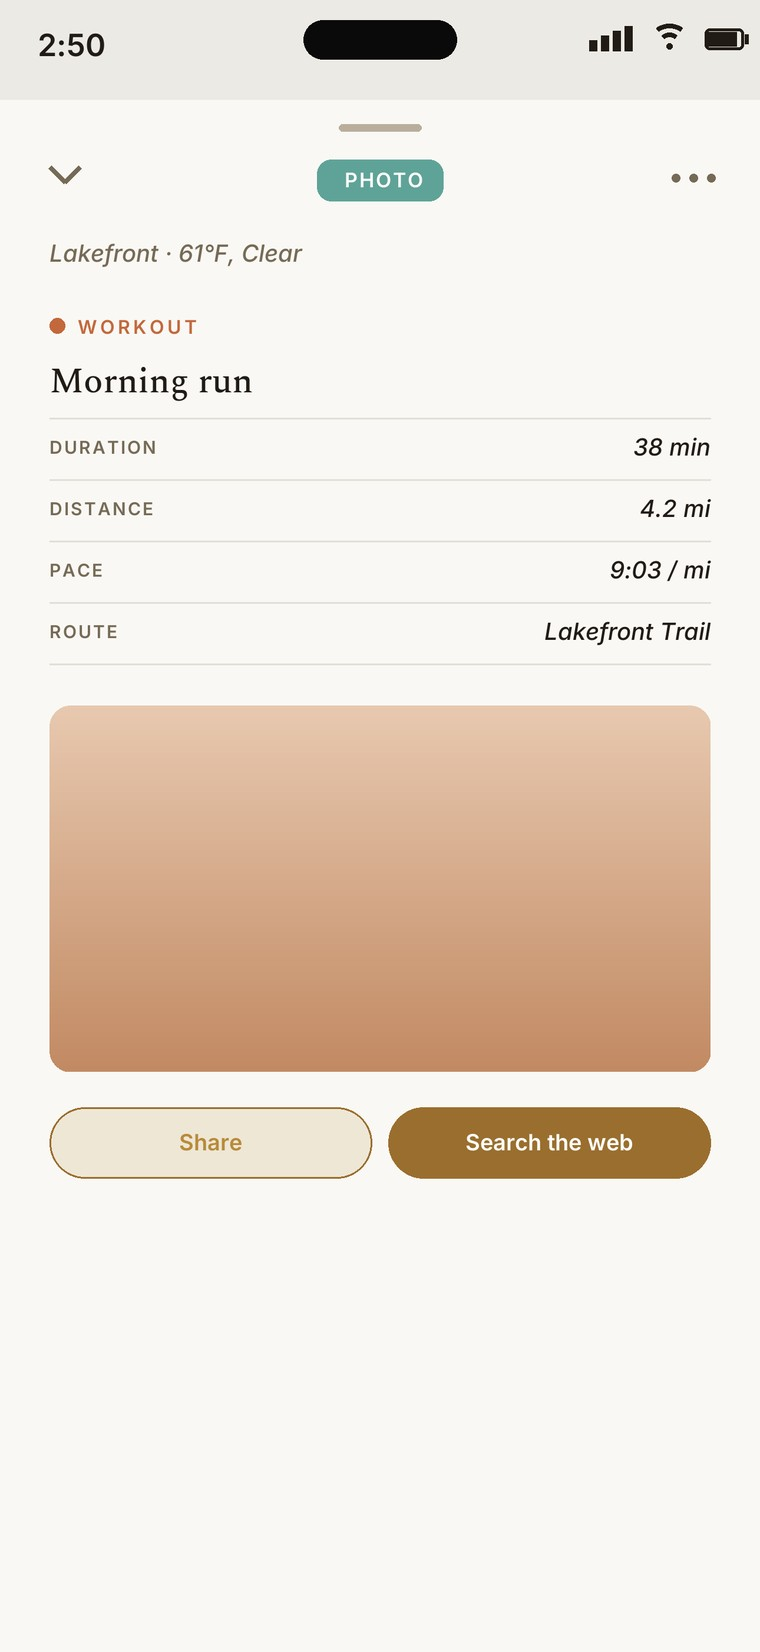
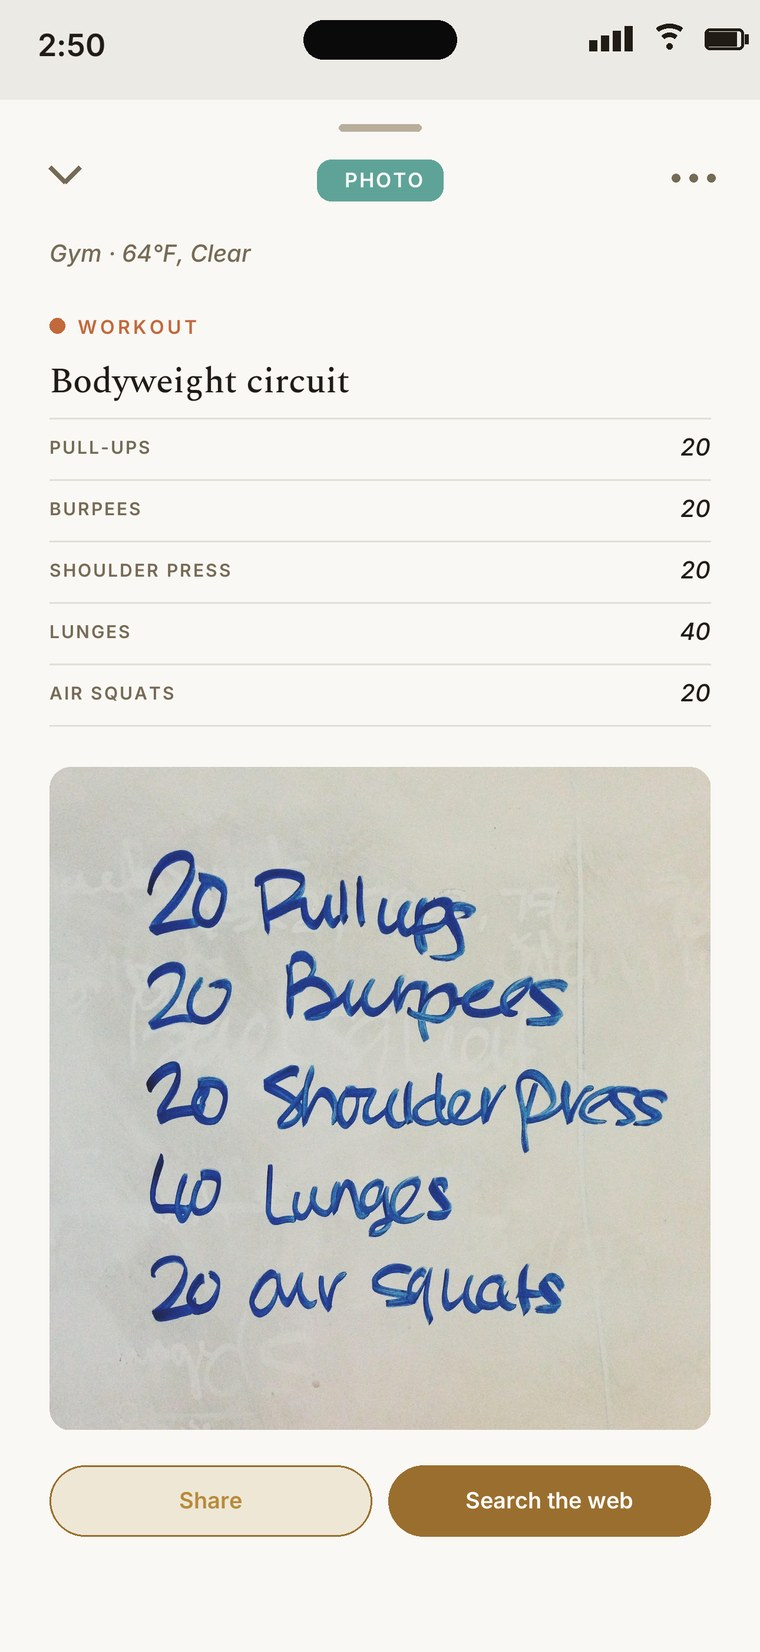
Rebuild the landing page around three use cases
The page toured ~25 features and never named the job it does, so a visitor
couldn't answer "why leave Apple Notes?". Cut to three: notes that polish
themselves, collections that gather themselves, and search you can just ask.
700 -> ~420 words.

- Hero leads with the job ("Snap it. Musing knows what it is.") instead of an
  attribute. "Domain" never appears; concrete nouns carry the idea.
- Drop the "New in 3.3" changelog section (version numbers mean nothing to a
  first-time visitor), the paper-physics section (a still can't sell a
  gesture), boards, briefs, web research, and the 12-kind enumeration.
- Magical search: the copy now uses queries the parser actually resolves, and
  says the part that matters -- a kind/time query is instant, offline, free.
- Pricing: capture-time AI was always unmetered but the page never said so, so
  the free tier read far worse than it is. Only open-ended search costs a credit.
- Domain mockups carry real photographs instead of duotone gradients, and the
  photo slot follows each photo's aspect so nothing the card claims is cropped
  out of view.

diff --git a/public/index.html b/public/index.html
@@ -3,8 +3,8 @@
 <head>
   <meta charset="UTF-8" />
   <meta name="viewport" content="width=device-width, initial-scale=1.0" />
-  <title>Musing — the most beautiful way to keep a thought</title>
-  <meta name="description" content="Musing is a notebook built to feel like paper — pages that stack and leaf under your finger, with an intelligence that finishes your notes for you. Capture a half-formed idea, find it later by asking." />
+  <title>Musing — snap anything, find everything</title>
+  <meta name="description" content="Snap a receipt, a workout, a bottle of wine. Musing reads your photo, fills in the details, and remembers where and when — so you never file anything and still find everything. Free, no subscription." />
   <link rel="icon" type="image/png" href="icon.png" />
   <link rel="apple-touch-icon" href="icon.png" />
   <link rel="preconnect" href="https://fonts.googleapis.com" />
@@ -12,8 +12,8 @@
   <link href="https://fonts.googleapis.com/css2?family=Inter:ital,wght@0,400;0,500;0,600;1,400&display=swap" rel="stylesheet" />
   <link rel="stylesheet" href="styles.css" />
   <!-- Social preview -->
-  <meta property="og:title" content="Musing — the most beautiful way to keep a thought" />
-  <meta property="og:description" content="A notebook built to feel like paper, with an intelligence that finishes your notes for you. No folders. No tags. Just ask." />
+  <meta property="og:title" content="Musing — snap anything, find everything" />
+  <meta property="og:description" content="Musing reads your photo, writes the note, and knows what kind of thing it is. No folders. No tags. Just ask." />
   <meta property="og:image" content="https://musingnotes.app/og-card.png" />
   <meta property="og:image:width" content="1200" />
   <meta property="og:image:height" content="630" />
@@ -27,8 +27,8 @@
     <div class="wrap hero-inner">
       <div class="hero-text">
         <div class="wordmark">Musing</div>
-        <h1>The most beautiful way <br />to keep a thought.</h1>
-        <p class="lead">A notebook built to feel like paper — pages that stack and leaf under your finger — with an intelligence that quietly finishes your notes for you.</p>
+        <h1>Snap it. Musing <br />knows what it is.</h1>
+        <p class="lead">Receipts, workouts, wine, books. Musing reads your photo, fills in the details, and remembers where and when — so you never file anything and still find everything.</p>
         <a class="appstore-btn" href="https://apps.apple.com/us/app/musing-notes/id6777539170" aria-label="Download Musing on the App Store">
           <svg class="appstore-logo" viewBox="0 0 24 24" aria-hidden="true"><path d="M17.05 12.04c-.03-2.7 2.2-4 2.3-4.06-1.25-1.83-3.2-2.08-3.9-2.11-1.66-.17-3.24.97-4.08.97-.84 0-2.14-.95-3.52-.92-1.81.03-3.48 1.05-4.41 2.67-1.88 3.26-.48 8.08 1.35 10.72.9 1.29 1.97 2.74 3.38 2.69 1.35-.05 1.87-.87 3.5-.87 1.63 0 2.1.87 3.53.84 1.46-.03 2.38-1.32 3.27-2.62 1.03-1.5 1.46-2.95 1.48-3.03-.03-.01-2.84-1.09-2.87-4.32zM14.43 4.2c.74-.9 1.24-2.15 1.1-3.4-1.07.04-2.36.71-3.13 1.61-.69.8-1.29 2.07-1.13 3.29 1.19.09 2.42-.6 3.16-1.5z"/></svg>
           <span class="appstore-txt"><small>Download on the</small><strong>App Store</strong></span>
@@ -41,97 +41,62 @@
     </div>
   </header>
 
-  <section class="beauty">
+  <section class="polish">
     <div class="wrap">
-      <p class="kicker">An object, not an interface</p>
-      <h2>It reads like paper.</h2>
-      <p class="section-lead">There are no tab bars in Musing, and no back buttons. Every screen rises as a page above your notebook; pull down anywhere and it falls away, all the way home. Drag to leaf through your notes. Swipe up and the notebook spreads into a timeline of everything you've kept.</p>
+      <p class="kicker">Notes that polish themselves</p>
+      <h2>You snap. It writes.</h2>
+      <p class="section-lead">Take the photo and walk away. Musing reads it — the merchant and total on the receipt. The brand and model on the appliance. The workout scrawled on the gym whiteboard, every rep. It writes the note, and it knows what kind of thing it is. Nothing to type. Nothing to file.</p>
       <div class="shot-row">
-        <div class="phone"><img src="shot-deck.jpg" width="760" height="1652" alt="A paper deck of notes — drag to leaf, tap to open, swipe up to spread" loading="lazy" /></div>
-        <div class="phone"><img src="shot-spread.jpg" width="760" height="1652" alt="The notebook spread into a timeline — Today, Yesterday, colored page edges" loading="lazy" /></div>
+        <div class="phone"><img src="shot-product.jpg" width="760" height="1652" alt="A photo of an appliance turned into a note — brand, model, serial, and purchase date" loading="lazy" /></div>
+        <div class="phone"><img src="shot-workout.jpg" width="760" height="1652" alt="A whiteboard workout photographed and turned into a note — every exercise and rep count read straight off the board" loading="lazy" /></div>
       </div>
     </div>
   </section>
 
-  <section class="intelligence">
-    <div class="wrap">
-      <p class="kicker">Quietly intelligent</p>
-      <h2>Notes that finish themselves.</h2>
-      <p class="section-lead">Type a fragment, speak it, or snap a photo — Musing cleans it up, reads the image, and can research the note on the live web, sources included. Write “remind me…” and a real Apple Reminder appears. You jot half a thought; Musing hands back something finished.</p>
-      <div class="shot-row">
-        <div class="phone"><img src="shot-web.jpg" width="760" height="1652" alt="A note about a book, completed by a From-the-web section with real details and sources" loading="lazy" /></div>
-        <div class="shot-caption">
-          <h3>Find anything by asking.</h3>
-          <p>No folders. No tags. Search the way you'd ask a friend — “that book Sarah recommended,” “the rainy café idea” — and Musing surfaces the note you mean, not just the words you typed. Every note quietly remembers where and when it happened, so a half-remembered moment stays findable.</p>
-        </div>
-        <div class="phone"><img src="shot-ask.jpg" width="760" height="1652" alt="Ask in plain language — Musing returns the exact notes, ranked" loading="lazy" /></div>
+  <section class="gathered">
+    <div class="wrap split">
+      <div class="split-text">
+        <p class="kicker">Your notes, gathered</p>
+        <h2>Tap one. See them all.</h2>
+        <p class="section-lead">Every note wears a tag for what it is. Tap it, and Musing gathers every other one like it — every receipt, every workout, every bottle you liked. Open search and your notebook lays out its own map: each kind you keep, and how many. A collection that builds itself, never a folder you keep.</p>
       </div>
+      <div class="phone"><img src="shot-spread.jpg" width="760" height="1652" alt="The notebook spread into a timeline of everything you've kept" loading="lazy" /></div>
     </div>
   </section>
 
-  <section class="boards">
-    <div class="wrap">
-      <p class="kicker">A record, not just a photo</p>
-      <h2>Notes that become boards.</h2>
-      <p class="section-lead">Pick a few notes and Musing lays them out as a client-ready board — your photos, your words, and the place and day each was captured. Proof it full screen, edit right on the board, then share it as an image or a PDF. Save it, and it lives under the Boards filter — rendering live from your notes.</p>
-      <div class="shot-row">
-        <div class="phone"><img src="shot-board.jpg" width="760" height="1652" alt="A board — Hansen kitchen materials — laid out from selected notes with photos and captions" loading="lazy" /></div>
-        <div class="shot-caption">
-          <h3>One note, the whole visit.</h3>
-          <p>A note now holds up to eight photos — a whole showroom stop, one thought. Each photo gets its own quiet AI line: what it is, the material or finish, even the label. All of it searchable, all of it ready to become a board.</p>
-        </div>
-        <div class="phone"><img src="shot-visit.jpg" width="760" height="1652" alt="A multi-photo note where each photo carries its own AI caption line" loading="lazy" /></div>
+  <section class="ask">
+    <div class="wrap split reverse">
+      <div class="split-text">
+        <p class="kicker">Magical search</p>
+        <h2>Just ask.</h2>
+        <p class="section-lead">No folders. No tags. No filenames — Musing never asked you for any. Say it the way you'd say it out loud: “my receipts,” “workouts last month,” “the Home Depot receipt.” Musing understands what kind of thing you mean and when it happened, and tells you why each note matched.</p>
+        <p class="section-note">Ask for a kind or a time and it lands before the keyboard settles — no spinner, no signal needed, no credit spent.</p>
       </div>
-    </div>
-  </section>
-
-  <section class="structured">
-    <div class="wrap">
-      <p class="kicker">New in 3.3</p>
-      <h2>Snap anything. Musing knows what it is.</h2>
-      <p class="section-lead">Twelve kinds of note now, tagged the moment you capture them, with nothing to file. A grocery list becomes a tappable checklist. An event flyer becomes a date and venue, one tap from a Reminder. A receipt keeps its merchant and total. And now a product keeps its brand, model, and serial for warranty day; a meal or a bottle of wine remembers the dish and the place; a workout, a book, an ID or membership card, a storefront, a plant, or your odometer — each its own kind of smart note.</p>
-      <div class="shot-row">
-        <div class="phone"><img src="shot-product.jpg" width="760" height="1652" alt="A photo of an appliance turned into a Product note — brand, model, serial, and purchase date" loading="lazy" /></div>
-        <div class="shot-caption">
-          <h3>Tap a tag, see them all.</h3>
-          <p>Every note wears a tag for what it is. Tap it and Musing gathers every other one like it — all your workouts, every wine, each receipt — a collection that assembles itself, never a folder you keep. Swipe up from the home screen to snap in one motion, and Musing reads it all a little more sharply than before.</p>
-        </div>
-        <div class="phone"><img src="shot-workout.jpg" width="760" height="1652" alt="A workout captured as its own kind of note — duration, distance, pace, and route" loading="lazy" /></div>
-      </div>
-    </div>
-  </section>
-
-  <section class="dark-band">
-    <div class="wrap dark-inner">
-      <div class="dark-text">
-        <p class="kicker">Two moods</p>
-        <h2>Stone by day. <br />Espresso by night.</h2>
-        <p>Warm stone light, deep espresso dark — and your boards follow: the image you share matches the mode you're in. Every detail of Musing was drawn before it was coded.</p>
-      </div>
-      <div class="phone"><img src="shot-dark.jpg" width="760" height="1652" alt="A board in espresso dark mode" loading="lazy" /></div>
+      <div class="phone"><img src="shot-ask.jpg" width="760" height="1652" alt="Ask in plain language — Musing returns the exact notes, ranked" loading="lazy" /></div>
     </div>
   </section>
 
   <section class="pricing" id="pricing">
     <div class="wrap">
       <p class="kicker">Fair by design</p>
-      <h2>No subscription.</h2>
-      <p class="section-lead">Capturing notes is free and unlimited, forever. Everyone gets 15 AI searches a month. Want more? Buy a one-time credit pack — credits never expire.</p>
+      <h2>Capturing is free. Forever.</h2>
+      <p class="section-lead">Unlimited notes. Musing reads your photos, writes your notes, and gathers your collections — all free, no limit. Asking for a kind or a time is free too, and works with no signal at all. Credits are only for the open-ended questions that need real thinking, and you get 15 every month.</p>
       <div class="plans">
         <div class="plan">
           <div class="name">Free</div>
           <div class="price">$0</div>
           <ul>
             <li>Unlimited notes, forever</li>
-            <li>15 AI searches every month</li>
-            <li>Type, voice, photo &amp; share capture</li>
+            <li>Photos read &amp; notes written, free</li>
+            <li>“My receipts,” “workouts last month” — free</li>
+            <li>15 open-ended searches a month</li>
           </ul>
         </div>
         <div class="plan">
           <div class="name">100 searches</div>
           <div class="price">$4.99<span> one-time</span></div>
           <ul>
-            <li>100 AI searches</li>
+            <li>100 searches</li>
             <li>Credits never expire</li>
             <li>No subscription</li>
           </ul>
@@ -140,7 +105,7 @@
           <div class="name">250 searches</div>
           <div class="price">$9.99<span> one-time</span></div>
           <ul>
-            <li>250 AI searches — best value</li>
+            <li>250 searches — best value</li>
             <li>Credits never expire</li>
             <li>No subscription</li>
           </ul>
@@ -152,7 +117,7 @@
 
   <section class="closing">
     <div class="wrap">
-      <h2>Capture a half-formed idea.<br />Find it later. That's Musing.</h2>
+      <h2>Snap it. Musing <br />knows what it is.</h2>
       <a class="appstore-btn" href="https://apps.apple.com/us/app/musing-notes/id6777539170" aria-label="Download Musing on the App Store">
         <svg class="appstore-logo" viewBox="0 0 24 24" aria-hidden="true"><path d="M17.05 12.04c-.03-2.7 2.2-4 2.3-4.06-1.25-1.83-3.2-2.08-3.9-2.11-1.66-.17-3.24.97-4.08.97-.84 0-2.14-.95-3.52-.92-1.81.03-3.48 1.05-4.41 2.67-1.88 3.26-.48 8.08 1.35 10.72.9 1.29 1.97 2.74 3.38 2.69 1.35-.05 1.87-.87 3.5-.87 1.63 0 2.1.87 3.53.84 1.46-.03 2.38-1.32 3.27-2.62 1.03-1.5 1.46-2.95 1.48-3.03-.03-.01-2.84-1.09-2.87-4.32zM14.43 4.2c.74-.9 1.24-2.15 1.1-3.4-1.07.04-2.36.71-3.13 1.61-.69.8-1.29 2.07-1.13 3.29 1.19.09 2.42-.6 3.16-1.5z"/></svg>
         <span class="appstore-txt"><small>Download on the</small><strong>App Store</strong></span>

diff --git a/public/styles.css b/public/styles.css
@@ -119,7 +119,7 @@ h1, h2 {
 .phone img { display: block; width: 100%; max-width: 100%; height: auto; border-radius: 30px; }
 /* Grid children default to min-width:auto — a 760px-intrinsic phone image would
    blow the column out past the viewport on mobile without this. */
-.hero-inner > *, .dark-inner > *, .shot-row > * { min-width: 0; }
+.hero-inner > *, .shot-row > * { min-width: 0; }
 
 /* ---------- Sections ---------- */
 section { padding: 104px 0; }
@@ -130,8 +130,21 @@ section h2 { font-size: clamp(34px, 4.4vw, 52px); margin-bottom: 20px; }
   max-width: 42em;
   margin-bottom: 56px;
 }
+/* Marginalia aside — echoes the "why it matched" line the app writes beside a result. */
+.section-note {
+  font-size: 16.5px;
+  color: var(--muted);
+  max-width: 34em;
+  margin-top: 20px;
+  padding-left: 16px;
+  border-left: 2px solid var(--bronze);
+}
 
-.beauty { background: var(--paper); }
+/* Three hero use cases: polish → gathered → ask. Alternate paper/stone so the
+   seams read; pricing picks the alternation back up on stone. */
+.polish { background: var(--paper); }
+.gathered { background: var(--stone); }
+.ask { background: var(--paper); }
 
 .shot-row {
   display: grid;
@@ -139,39 +152,26 @@ section h2 { font-size: clamp(34px, 4.4vw, 52px); margin-bottom: 20px; }
   gap: 40px;
   align-items: center;
 }
-.shot-caption h3 {
-  font-family: var(--display);
-  font-weight: 600;
-  letter-spacing: -0.01em;
-  font-size: 30px;
-  line-height: 1.2;
-  margin-bottom: 14px;
-}
-.shot-caption p { color: var(--muted); font-size: 18px; }
-
-.intelligence { background: var(--stone); }
-
-.boards { background: var(--paper); }
-
-.structured { background: var(--stone); }
-
-/* ---------- Dark band ---------- */
-.dark-band {
-  background: radial-gradient(120% 130% at 25% 10%, var(--espresso-2) 0%, var(--espresso) 65%);
-  color: var(--cream);
-}
-.dark-band .kicker { color: var(--gold); }
-.dark-inner {
+/* Copy beside a single phone. A lone centred phone strands in the 1080px wrap;
+   the split fills the width and lets sections 2/3 mirror each other. */
+.split {
   display: grid;
-  grid-template-columns: 1.1fr 0.9fr;
-  gap: 56px;
+  grid-template-columns: 1fr 0.72fr;
+  gap: 64px;
   align-items: center;
 }
-.dark-text p:not(.kicker) { color: rgba(240, 237, 232, 0.66); font-size: 20px; max-width: 30em; }
-.dark-text h2 { margin-bottom: 18px; }
+.split > * { min-width: 0; }
+/* width:100% + auto margins, never justify-self:center — that shrink-to-fits the
+   item, and a lazy `img` at width:100% then resolves circularly to zero. */
+.split .phone { max-width: 320px; width: 100%; margin: 0 auto; }
+.split .section-lead { margin-bottom: 0; }
+/* `order` moves the text right but not the track widths — swap those too, or the
+   copy lands in the narrow column. */
+.split.reverse { grid-template-columns: 0.72fr 1fr; }
+.split.reverse .split-text { order: 2; }
 
 /* ---------- Pricing ---------- */
-.pricing { background: var(--paper); text-align: center; }
+.pricing { background: var(--stone); text-align: center; }
 .pricing .section-lead { margin-left: auto; margin-right: auto; }
 .plans {
   display: grid;
@@ -182,7 +182,7 @@ section h2 { font-size: clamp(34px, 4.4vw, 52px); margin-bottom: 20px; }
   text-align: left;
 }
 .plan {
-  background: var(--stone);
+  background: var(--paper);
   border: 1px solid var(--line);
   border-radius: 18px;
   padding: 26px 24px;
@@ -256,16 +256,29 @@ footer p { margin: 4px 0; }
 
 /* ---------- Responsive ---------- */
 @media (max-width: 860px) {
-  .hero-inner, .dark-inner { grid-template-columns: 1fr; }
+  /* `.split.reverse` sets its own tracks at (0,2,0); a media query adds no
+     specificity, so it must be re-listed here or it stays two-column and
+     overflows the viewport. */
+  .hero-inner, .split, .split.reverse { grid-template-columns: 1fr; }
+  /* Text always leads the phone once stacked, so `reverse` must not apply. */
+  .split.reverse .split-text { order: 0; }
+  .split { gap: 32px; text-align: center; }
+  .split .section-lead { margin-left: auto; margin-right: auto; }
+  /* A left rule reads as a stray line once the column is centred. */
+  .section-note {
+    border-left: none;
+    padding-left: 0;
+    margin-left: auto;
+    margin-right: auto;
+    text-align: center;
+  }
   .hero { padding-top: 56px; text-align: center; }
   .hero h1 { font-size: clamp(32px, 9vw, 44px); }
-  .hero h1 br, .dark-text h2 br { display: none; }
+  .hero h1 br, .closing h2 br { display: none; }
   .hero .lead { margin-left: auto; margin-right: auto; }
   .hero-shot { max-width: 340px; margin: 24px auto 0; }
   .hero-shot .phone { margin-bottom: -18vw; }
-  .dark-inner .phone { max-width: 340px; margin: 0 auto; }
   section { padding: 72px 0; }
   .shot-row { gap: 28px; }
   .shot-row .phone { max-width: 340px; margin: 0 auto; }
-  .shot-caption { text-align: center; }
 }